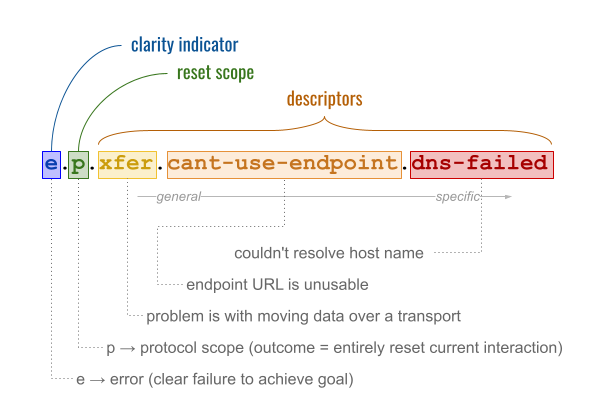
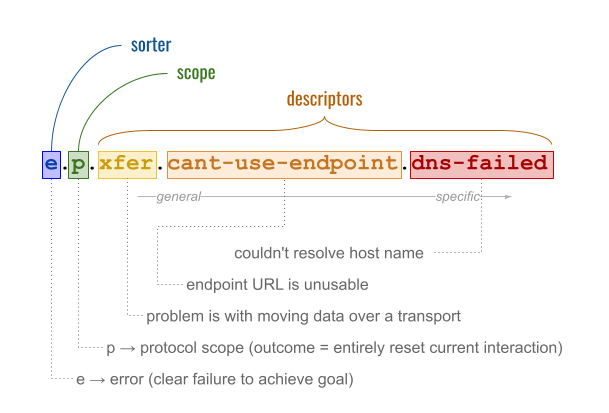
Reduce jargon

Changed region(s): [[0.2184, 0.0872, 0.4368, 0.2034]]

diff --git a/docs/spec-files/problems.md b/docs/spec-files/problems.md
@@ -63,32 +63,32 @@ Problem codes are lower kabob-case. They are structured as a sequence of tokens 
 
 ![problem code structure](problem-code-structure.png)
 
-##### Clarity Indicator
+##### Sorter
 
-The leftmost component of a problem code is its **clarity indicator**. This is a single character that tells whether the consequence of the problem are fully understood. Two values are defined:
+The leftmost component of a problem code is its **sorter**. This is a single character that tells whether the consequence of the problem are fully understood. Two values are defined:
 
 * **`e`**: This problem clearly defeats the intentions of at least one of the parties. It is therefore an **error**. A situation with error semantics might be that a protocol requires payment, but a payment attempt was rejected.
 * **`w`**: The consequences of this problem are not obvious to the reporter; evaluating its effects requires judgment from a human or from some other party or system. Thus, the message constitutes a **warning** from the sender's perspective. A situation with warning semantics might be that a sender is only able to encrypt a message for some of the recipient's `keyAgreement` keys instead of all of them (perhaps due to an imperfect overlap of supported crypto types). The sender in such a situation might not know whether the recipient considers this an error.
 
 >Note:  What distinguishes an error from a warning is *clarity about its consequences*, not its *severity*. This clarity is inherently contextual. A warning might prove to be just as problematic as an error, once it's fully evaluated. This implies that the same problem can be an error in some contexts, and a warning in others. In our example above, we imagined a payment failure as an error. But if this problem occurs in a context where retries are expected, and there's a good chance of future success, perhaps the problem is a warning the first three times it's reported &mdash; then becomes an error when all hope is lost.
 
-##### Reset Scope
+##### Scope
 
-Reading left to right, the next token in a problem code is called the **reset scope**. This gives the sender's opinion about how much context should be undone if the problem is deemed an error.
+Reading left to right, the next token in a problem code is called the **scope**. This gives the sender's opinion about how much context should be undone if the problem is deemed an error.
 
->Note: A problem always acquires the maximum clarity that parties to a protocol assign it. If the sender of a problem report deems it an error, then it is. If the sender deems it a warning, but a recipient with greater context decides that it clearly frustrates their goals, then it becomes an error; see [Replying to Warnings](#replying-to-warnings). Thus, *reset scope* is relevant even if the sender chooses a problem code that starts with `w`.)
+>Note: A problem always sorts according to the most pessimistic view that is taken by participants in the protocol. If the sender of a problem report deems it an error, then it is. If the sender deems it a warning, but a recipient with greater context decides that it clearly frustrates their goals, then it becomes an error; see [Replying to Warnings](#replying-to-warnings). Thus, *scope* is relevant even if the sender chooses a problem code that starts with `w`.)
 
-The possible values of *reset scope* are:
+The possible values of *scope* are:
 
 * **`p`**: The protocol within which the error occurs (and any [co-protocols](https://github.com/hyperledger/aries-rfcs/blob/master/concepts/0478-coprotocols/README.md) started by and depended on by the protocol) is abandoned or reset. In simple two-party request-response protocols, the `p` reset scope is common and appropriate. However, if a protocol is complex and long-lived, the `p` reset scope may be undesirable. Consider a situation where a protocol helps a person apply for college, and the problem code is `e.p.payment-failed`. With such a `p` reset scope, the entire apply-for-college workflow (collecting letters of recommendation, proving qualifications, filling out various forms) is abandoned when the payment fails.  
 
-* **`m`**: The error was triggered by the previous message on the thread. The outcome is that the problematic message is rejected (has no effect). If the protocol is a chess game, and the problem code is `e.m.invalid-move`, then someone's invalid move is rejected, and it is still their turn.
+* **`m`**: The error was triggered by the previous message on the thread; the scope is one message. The outcome is that the problematic message is rejected (has no effect). If the protocol is a chess game, and the problem code is `e.m.invalid-move`, then someone's invalid move is rejected, and it is still their turn.
 
-* **A formal *state name* from the sender's state machine in the active protocol.** This means the error represented a partial failure of the protocol, but the protocol as a whole is not abandoned. Instead, the sender uses the reset scope to indicate what state it reverts to. If the protocol is one that helps a person apply for college, and the problem code is `e.get-pay-details.payment-failed`, then the sender is saying that, because of the error, it is moving back to the `get-pay-details` state in the larger workflow.
+* **A formal *state name* from the sender's state machine in the active protocol.** This means the error represented a partial failure of the protocol, but the protocol as a whole is not abandoned. Instead, the sender uses the scope to indicate what state it reverts to. If the protocol is one that helps a person apply for college, and the problem code is `e.get-pay-details.payment-failed`, then the sender is saying that, because of the error, it is moving back to the `get-pay-details` state in the larger workflow.
 
 ##### Descriptors
 
-After the *clarity indicator* and the *reset scope*, problem codes consist of one or more **descriptors**. These are kabob-case tokens separated by the `.` character, where the semantics get progressively more detailed reading left to right. Senders of problem reports SHOULD include at least one descriptor in their problem code, and SHOULD use the most specific descriptor they can. Recipients MAY specialize their reactions to problems in a very granular way, or MAY examine only a prefix of a problem code.
+After the *sorter* and the *scope*, problem codes consist of one or more **descriptors**. These are kabob-case tokens separated by the `.` character, where the semantics get progressively more detailed reading left to right. Senders of problem reports SHOULD include at least one descriptor in their problem code, and SHOULD use the most specific descriptor they can. Recipients MAY specialize their reactions to problems in a very granular way, or MAY examine only a prefix of a problem code.
 
 The following descriptor tokens are defined. They can be used by themselves, or as prefixes to more specific descriptors. Additional descriptors &mdash; particularly more granular ones &mdash; may be defined in individual protocols.
 
@@ -109,7 +109,7 @@ Token | Value of `comment` string | Notes
 
 When Alice sends a `w.*` problem report to Bob, and Bob decides that the warning is actually an error, he SHOULD reply to Alice to let her know about the consequences of his evaluation. Bob's reply is another `problem-report` message. It looks very similar to Alice's original, except:
 
-* The `code` in Bob's message now begins with `e.`. The remainder of the code MAY (often will be) identical, but this is not required; if Bob knows more details than Alice did, he SHOULD provide them. The *reset scope* in Bob's code MUST be at least as far-reaching as the reset scope in Alice's original message. (For example, Bob MUST NOT use reset scope `m` to say the protocol continues with only a bad message ignored, if Alice's original warning said she considered the reset scope to be `p`.)
+* The `code` in Bob's message now begins with `e.`. The remainder of the code MAY (often will be) identical, but this is not required; if Bob knows more details than Alice did, he SHOULD provide them. The *scope* in Bob's code MUST be at least as broad as the scope in Alice's original message. (For example, Bob MUST NOT use scope `m` to say the protocol continues with only a bad message ignored, if Alice's original warning said she considered the scope to be `p`.)
 * The `args` property may or may not match.  
 * The `id` header for Bob's message has a new value. (Bob's message and Alice's MUST both be part of the same thread, so Bob's message is processed as a reply to Alice's. See [Threading](#threading).)
 
